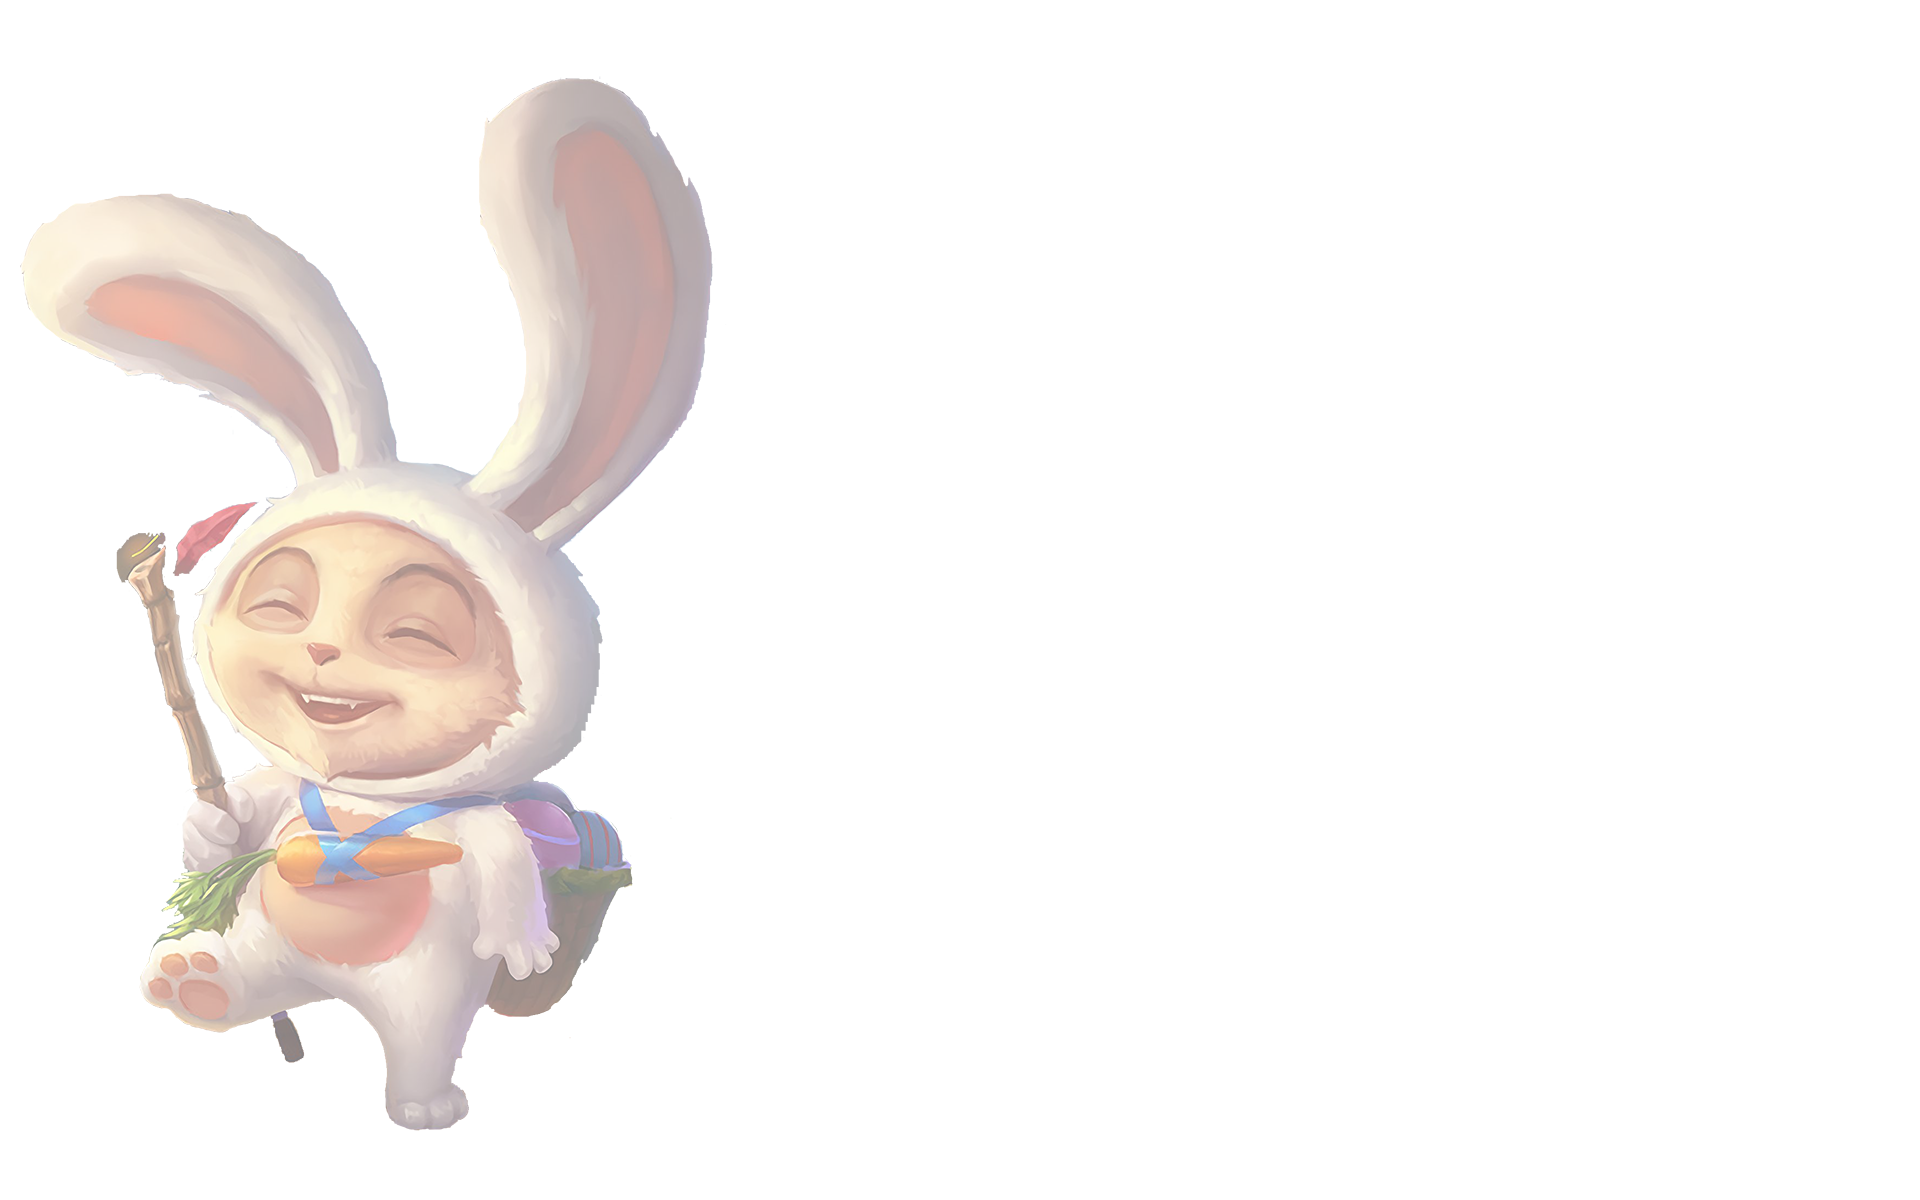
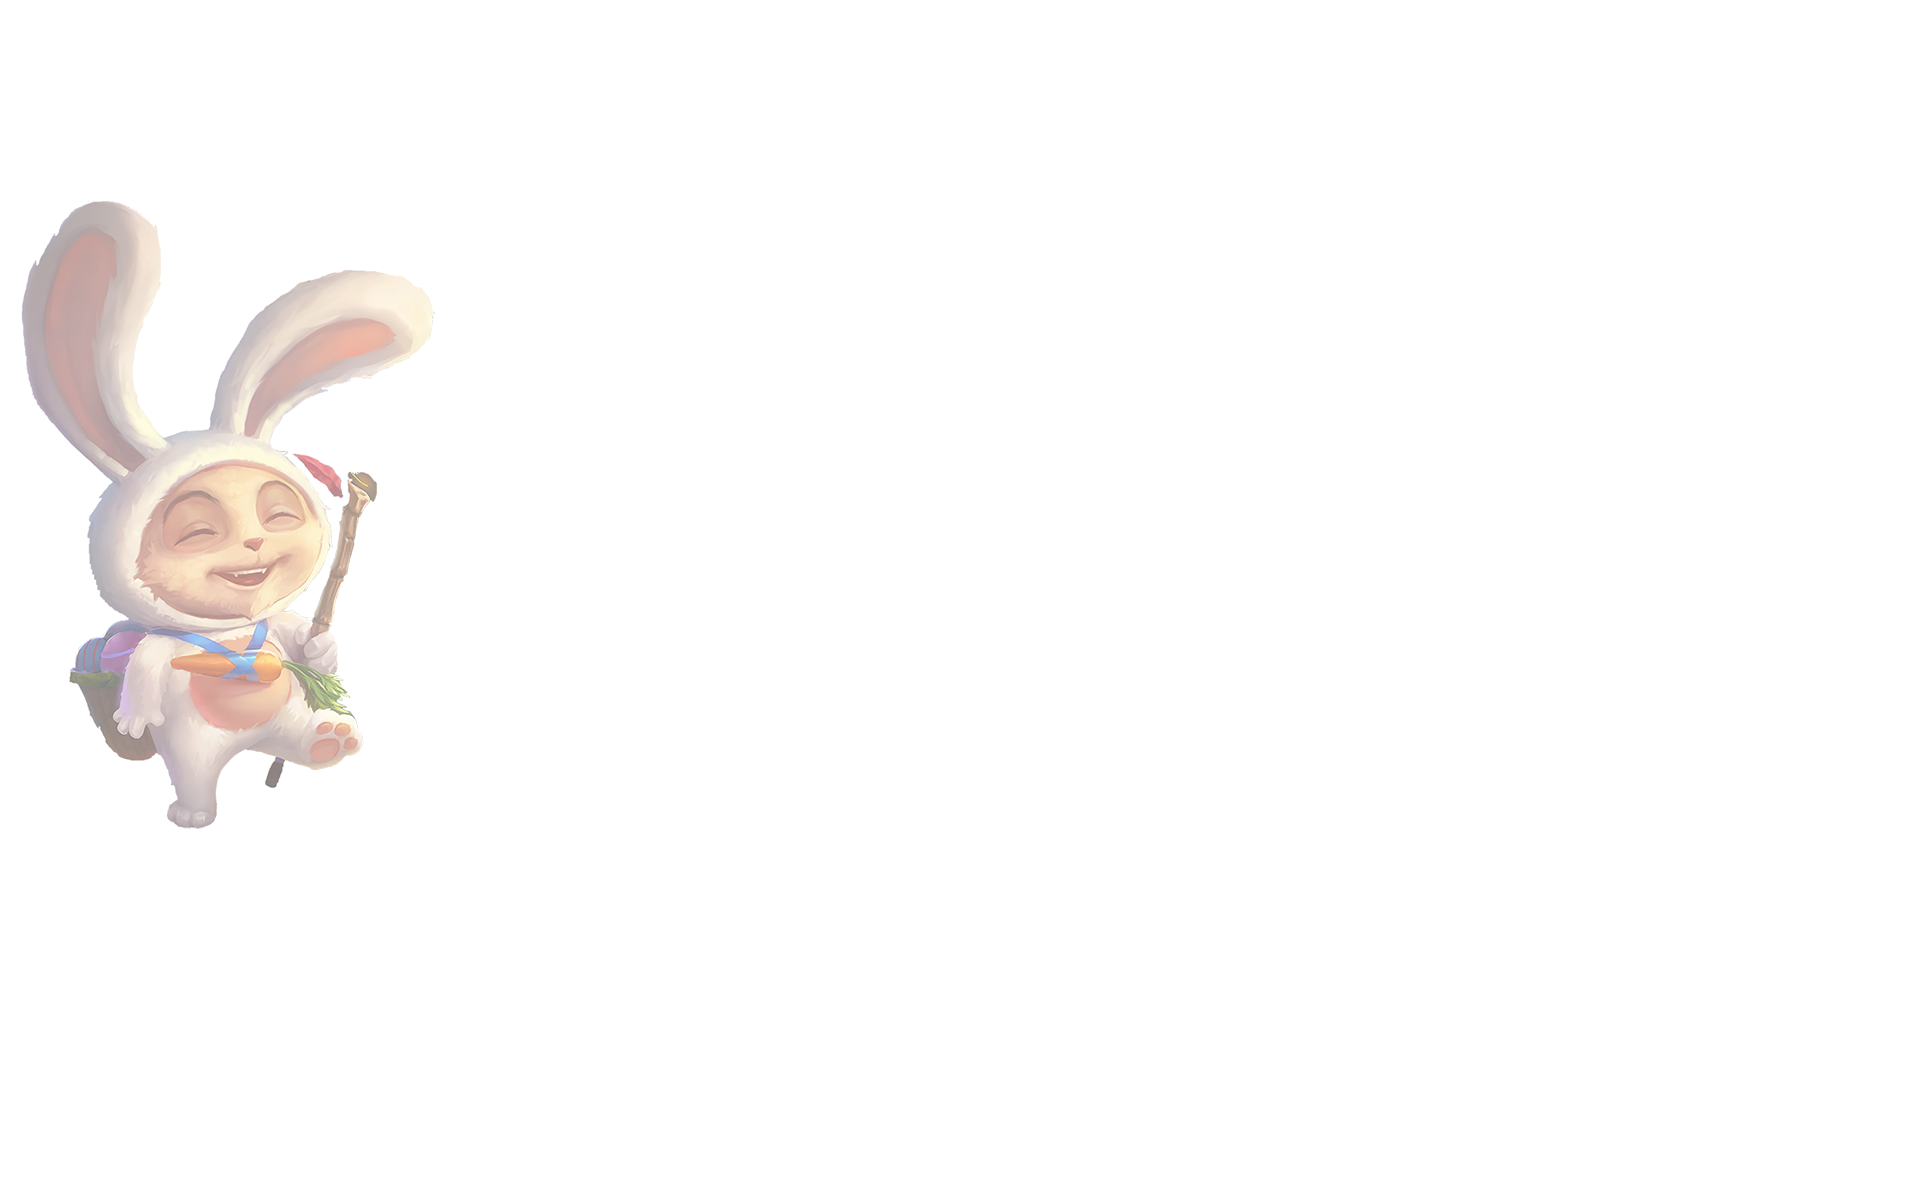
更新

Changed region(s): [[0.0, 0.0617, 0.375, 0.9558]]

diff --git a/index.html b/index.html
@@ -17,24 +17,29 @@
   <link rel="stylesheet" href="./css/common.css">
 
   <style>
-    .head {
+    .head-container {
       position: fixed;
       top: 0;
       width: 100%;
       height: 41px;
       background-color: rgba(40, 42, 44, 0.6);
-      padding-left: 20%;
-      /* padding-left: 38%; */
       z-index: 999;
     }
 
-    .nav {
+    .head {
+      width: 1170px;
+      margin: 0 auto;
+      padding-left: 15px;
+      /* padding-left: 38%; */
+    }
+
+    .menu {
       max-width: 50%;
       height: 41px;
       line-height: 41px;
     }
 
-    .nav li {
+    .menu li {
       -webkit-transition: all 0.6s;
       color: #fff;
       float: left;
@@ -42,18 +47,18 @@
       user-select: none;
     }
 
-    .nav li:hover {
+    .menu li:hover {
       -webkit-transition: all 0.6s;
       background-color: #eeeeee;
       color: #000;
     }
 
-    .nav li:hover a {
+    .menu li:hover a {
       -webkit-transition: all 0.2s;
       color: #000;
     }
 
-    .nav li a {
+    .menu li a {
       padding: 7px 14px;
       font-size: 15px;
       color: #fff;
@@ -63,15 +68,6 @@
       margin-right: 0.5em;
     }
 
-
-    /* 底部 */
-    .footer-container {
-      position: relative;
-      top: 2160px;
-      width: 100%;
-      height: 200px;
-      background-color: #23282d;
-    }
 
     /* head 随着滚轮变化淡入淡出 */
     .scrollUp {
@@ -155,16 +151,19 @@
 </head>
 
 <body>
-  <div class="head t1">
-    <ul class="nav">
-      <li><a href="#"><i class="fa fa-home"></i>首页</a></li>
-      <li><a href="#"><i class="fa fa-book"></i>档案馆</a></li>
-      <li><a href="#"><i class="fa fa-paw"></i>支持者</a></li>
-      <li><a href="#"><i class="fa fa-trophy"></i>作品</a></li>
-      <li><a href="#"><i class="fa fa-paper-plane"></i>关于我</a></li>
-    </ul>
+  <div class="head-container">
+    <div class="head t1">
+
+      <ul class="menu">
+        <li><a href="#"><i class="fa fa-home"></i>首页</a></li>
+        <li><a href="#"><i class="fa fa-book"></i>档案馆</a></li>
+        <li><a href="#"><i class="fa fa-paw"></i>支持者</a></li>
+        <li><a href="#"><i class="fa fa-trophy"></i>作品</a></li>
+        <li><a href="#"><i class="fa fa-paper-plane"></i>关于我</a></li>
+      </ul>
+    </div>
   </div>
-  <div class="head-bg">
+  <div class="head-bg"></div>
   </div>
 
   <!-- 主区域 -->
@@ -189,6 +188,10 @@
   </div>
 
 
+
+
+
+
   <!-- 底部 -->
   <footer class="footer-container">
     <div class="footer-content">
@@ -202,30 +205,34 @@
       © 2022 得意猪 版权所有. 本站已在风雨中度过<span class="existTime"></span>
     </div>
   </footer>
+
   <!-- 音乐盒子 -->
   <div id="aplayer"></div>
+  <!-- 画布 -->
   <canvas class="canvas"></canvas>
-  <script src="./js/ball.js"></script>
-  <script src="./js/main.js"></script>
-  <script src="./js/player.js"></script>
-  <script src="./file/player.json?callback=playerData"></script>
-  <script src="./file/main.json?callback=buildTime"></script>
-  <script src="./js/changecolor.js"></script>
 
-  <script>
-    // 点击返回顶部头部导航栏淡出
-    $('.backTop').on('click', function (event) {
-      $('html, body').animate({
-        scrollTop: $('html').offset().top
-      }, 500);
-      setTimeout(() => {
-        $('.t1').removeClass('scrollDown').addClass('scrollUp')
-        $('.backTop').removeClass('backTopUp').addClass('backTopDown')
-        $('.tools').removeClass('toolsUp').addClass('toolsDown')
-      }, 450)
-    });
-
-  </script>
 </body>
+
+<script src="./js/ball.js"></script>
+<script src="./js/main.js"></script>
+<script src="./js/player.js"></script>
+<script src="./file/player.json?callback=playerData"></script>
+<script src="./file/main.json?callback=buildTime"></script>
+<script src="./js/changecolor.js"></script>
+
+<script>
+  // 点击返回顶部头部导航栏淡出
+  $('.backTop').on('click', function (event) {
+    $('html, body').animate({
+      scrollTop: $('html').offset().top
+    }, 500);
+    setTimeout(() => {
+      $('.t1').removeClass('scrollDown').addClass('scrollUp')
+      $('.backTop').removeClass('backTopUp').addClass('backTopDown')
+      $('.tools').removeClass('toolsUp').addClass('toolsDown')
+    }, 450)
+  });
+
+</script>
 
 </html>

diff --git a/css/common.css b/css/common.css
@@ -8,11 +8,11 @@
 
 /* 首页封面 */
 .head-bg {
-  /* -webkit-transition: all 0.2s; */
+  -webkit-transition: all 0.8s;
   position: relative;
   width: 100%;
   height: 320px;
-  background: url(../image/head.jpg) 0 0/1920px 640px;
+  background-size: cover;
   z-index: 99;
 }
 
@@ -22,8 +22,9 @@
   position: fixed;
   top: 0;
   width: 100%;
-  height: 2160px;
-  background: #f5f5f5 url(../image/timo.png) no-repeat 0 100px/60%;
+  height: 100%;
+  background: #f5f5f5 url(../image/timo.png) no-repeat 0 0/60%;
+  background-size: cover;
 }
 
 /* 七彩气泡画布 */
@@ -35,6 +36,15 @@
   width: 1920px;
   height: 1000px;
   pointer-events: none;
+}
+
+/* 底部 */
+.footer-container {
+  position: absolute;
+  top: 2000px;
+  width: 100%;
+  height: 200px;
+  background-color: #23282d;
 }
 
 /* 底部 */
@@ -58,5 +68,3 @@
   background: none;
   color: rgba(255, 255, 255, 0.8);
 }
-
-

diff --git a/js/changecolor.js b/js/changecolor.js
@@ -9,9 +9,11 @@ if (color === 'light' || !color) {
 
 $('.change-color').on('click', () => {
   if (color === 'light') {
+    $('html').attr('color', 'dark')
     color = 'dark'
     dark()
   } else {
+    $('html').attr('color', '')
     color = 'light'
     light()
   }

diff --git a/css/dark.css b/css/dark.css
@@ -17,7 +17,7 @@
 }
 
 .head-bg {
-  background-position: 0 320px !important;
+  background: url('../image/head-dark.png')no-repeat 0 -150px/100% 320px;
 }
 
 .main-container {

diff --git a/css/light.css b/css/light.css
@@ -17,7 +17,7 @@
 }
 
 .head-bg {
-  background-position: 0 0 !important;
+  background: url('../image/head-light.jpg')no-repeat 0 -300px/100% 320px;
 }
 
 .main-container {
